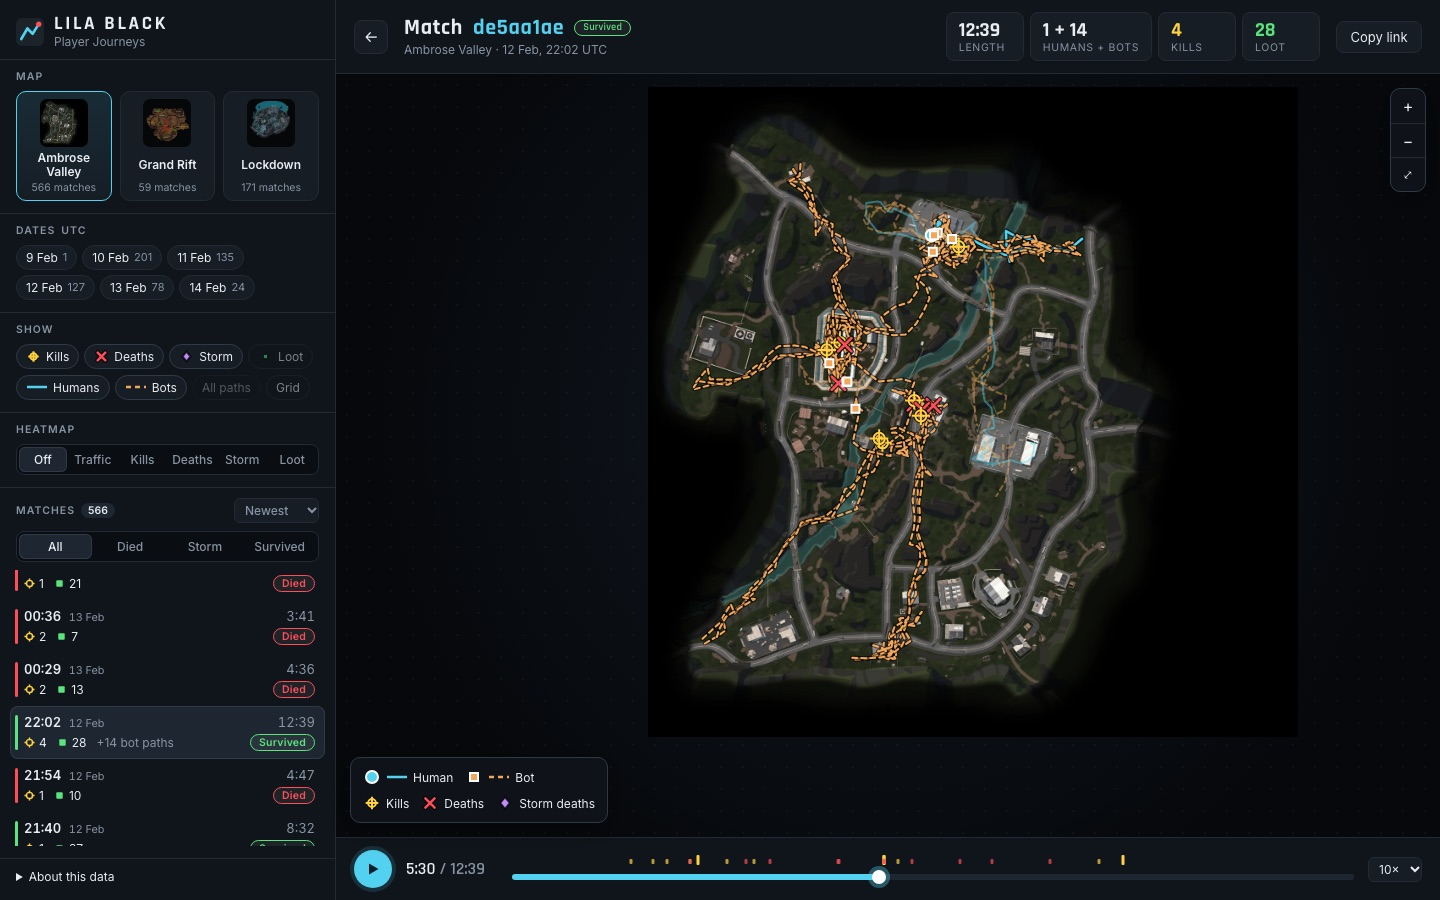
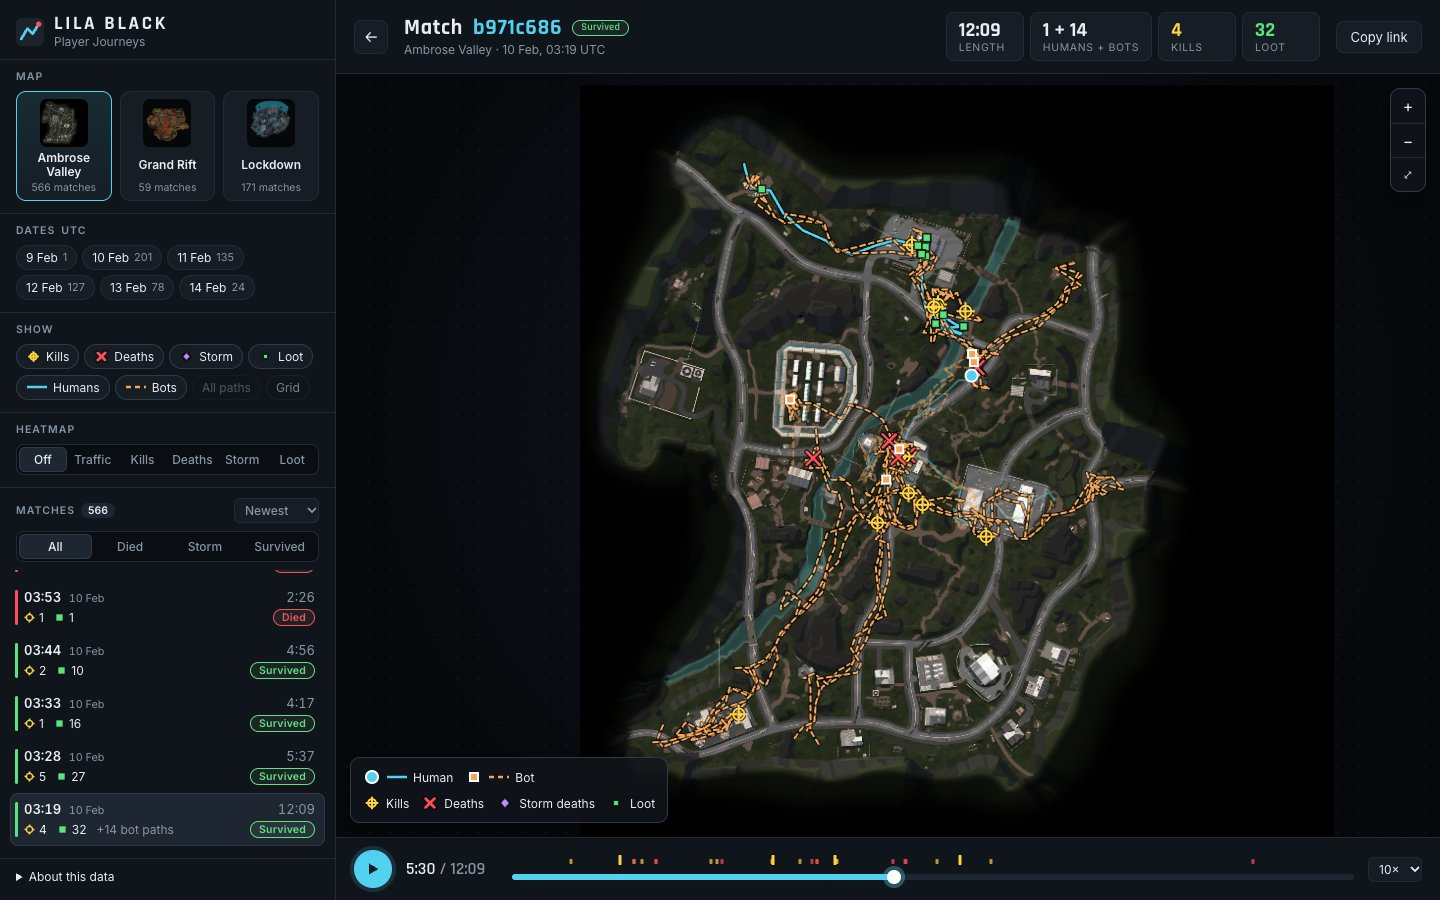
Fit the architecture doc on one page, tighten the insights, new screenshots
- ARCHITECTURE: same five parts, cut down to one printed page
- Insight 1: call out the player with 15 of the 59 Grand Rift runs, and
  drop the overclaim about the rest of the map
- Insights 2 and 3: count spawn points, not grid cells, and leave out the
  heaviest player on both maps when comparing Lockdown
- README: Node version, All paths and Opacity in the walkthrough, full
  code layout, screenshots of the current UI

diff --git a/INSIGHTS.md b/INSIGHTS.md
@@ -1,10 +1,10 @@
 # Three things I learned from the data
 
-All numbers come from the processed data in `public/data` (human journeys only unless I say otherwise). The links open the live tool on the right map or match. Grid references (like `E6`) use the tool's A–J / 1–10 grid. Turn it on with the Grid toggle under Show.
+All numbers come from the processed data in `public/data` (human journeys only unless I say otherwise). The links open the live tool on the right map or match. Grid references (like `E6`) use the tool's A-J / 1-10 grid. Turn it on with the Grid toggle under Show.
 
 ---
 
-## 1. Grand Rift: the Mine Pit has a fifth of the traffic and three quarters of the deaths
+## 1. Grand Rift: the Mine Pit has a fifth of the traffic and three quarters of the combat deaths
 
 **What caught my eye.** On Grand Rift I flipped the heatmap from Traffic to Deaths, expecting roughly the same picture. Instead, the deaths collapse into one spot, the Mine Pit in the middle of the map. The two "Quarters" compounds get just as much foot traffic and almost no one dies there.
 
@@ -12,19 +12,20 @@ All numbers come from the processed data in `public/data` (human journeys only u
 
 | Area | Share of time spent | Combat deaths |
 |---|---|---|
-| Mine Pit (E5–E7, F5–F7) | 22% | **19 of 25 (76%)** |
-| Labour + Engineer's Quarters (B5–C6, H6–I7) | 23% | **0** |
+| Mine Pit (E5-E7, F5-F7) | 22% | **19 of 25 (76%)** |
+| Labour + Engineer's Quarters (B5-C6, H6-I7) | 23% | **0** |
 
 - 43 of the 59 Grand Rift runs pass through the pit, and 19 of those 43 players (44%) die inside it.
 - The pit is packed with bots. Humans get 90 bot kills per 1,000 samples there, against 48 map-wide. Players win most of those fights (74 kills to 19 deaths), but 19 of the 34 players who fight in the pit die there.
-- Ambrose Valley has a milder version: cells C5–E6 hold about half of all deaths on less than a quarter of the traffic.
+- One player (94d042cb) has 15 of the 59 runs and 5 of the 19 pit deaths. Without them the pit still has 14 of 20 combat deaths on 19% of the time.
+- Ambrose Valley has a milder version: cells C5-E6 hold about half of all deaths on less than a quarter of the traffic.
 
 **Actionable.**
-- Make the pit floor survivable: add cover and a second way out of E5–E7, or cut the number of bots placed inside it.
+- Make the pit floor survivable: add cover and a second way out of E5-E7, or cut the number of bots placed inside it.
 - If the Quarters are meant to carry some risk, move a bot patrol or better loot there. Leave Labour Quarters (B5) alone, because 16 of the 59 runs spawn there, and danger next to a spawn turns into spawn camping.
 - Metrics that should move: the pit's share of deaths (76% now), the share of pit visitors who die there (44%), and Grand Rift's combat death rate (25 of 59 runs).
 
-**Why a level designer should care.** One room decides most Grand Rift matches, and the rest of the map has no risk at all. Both causes, the geometry and where bots are placed, belong to the level team.
+**Why a level designer should care.** One room has three quarters of Grand Rift's combat deaths, while the two Quarters, with just as much traffic, have none. Both causes, the geometry and where bots are placed, belong to the level team.
 
 ---
 
@@ -37,7 +38,7 @@ All numbers come from the processed data in `public/data` (human journeys only u
 | Spawn | Killed within 120 s |
 |---|---|
 | C7 (west road) | **21 of 75 runs (28%)** |
-| The other 8 spawns combined | 20 of 493 runs (4%) |
+| All other spawns combined | 20 of 493 runs (4%) |
 
 - The early deaths land just north and east of the spawn: C6 (7), C7 (5), D6 (5), E6 (2), D7 and F6 (1 each). That's the cluster of houses south of the walled compound.
 - 10 of those 21 players hadn't picked up a single item before dying.
@@ -46,7 +47,7 @@ All numbers come from the processed data in `public/data` (human journeys only u
 
 **Actionable.**
 - Move the C7 spawn further south or west, away from the C6/D6 houses, or keep bots out of C6/D6 for the first two minutes.
-- Metric that should move: C7's early-death rate, from 28% down toward the 0–9% that every other spawn already has. Also watch zero-loot deaths from C7 and session length for players who spawn there.
+- Metric that should move: C7's early-death rate, from 28% down toward the 0-7% that the other spawn points already have. Also watch zero-loot deaths from C7 and session length for players who spawn there.
 
 **Why a level designer should care.** A player can't avoid a bad spawn. One in four people who start at C7 lose before they've made a real decision, which is the kind of match that makes someone close the game. The fix is one spawn point or one bot placement.
 
@@ -64,13 +65,13 @@ All numbers come from the processed data in `public/data` (human journeys only u
 | Ambrose Valley | 17 of 94 (18%) | 9 | 68 |
 
 - After about 10:40, no one on Lockdown is killed by a bot. Every late death is the storm.
-- One player accounts for 6 of the 17 storm deaths. Even without them it's 11 of 29 (38%), still double Ambrose Valley.
+- One player accounts for 6 of the 17 storm deaths. Even without them it's 11 of 29 (38%). Leaving out Ambrose Valley's most frequent player the same way gives 16 of 76 (21%) there, so Lockdown is still well ahead.
 - Players pick up loot more slowly on Lockdown (1.7 items per minute against 2.7 on Ambrose Valley). People who stay late are likely trying to fill their bags, and they run out of time.
 - An example: [match 18c1b2c6](https://lila-player-journeys-one.vercel.app/#map=Lockdown&match=18c1b2c6-4f87-4200-9816-68fa448de33b&t=760). The player reaches the east edge (I5) at 13:34 and dies to the storm in I4 at 13:44.
 
 **Actionable.**
 - Try the cheap fixes first: a clearer storm or extraction warning before 10:30, and more loot on Lockdown so bags fill sooner.
-- If the storm share doesn't drop, delay or slow the final storm phase by 60–90 s, or add an extraction point closer to where late players end up.
+- If the storm share doesn't drop, delay or slow the final storm phase by 60-90 s, or add an extraction point closer to where late players end up.
 - Metrics that should move: storm deaths as a share of players alive at 650 s (49% now, Ambrose Valley sits at 18%), and Lockdown loot per minute.
 
 **Why a level designer should care.** A storm death throws away everything the player collected. On Lockdown it hits exactly the players who commit to a full match. With no bot threat late in the match, the outcome comes down to loot pace and distance to an exit, and both are level design decisions.
@@ -81,4 +82,4 @@ All numbers come from the processed data in `public/data` (human journeys only u
 
 - The data almost always has one human file per match, so there's no real PvP in it. The only 3 `Kill` rows each sit at the same second and spot as that player's own death. These findings are about bots, geometry and timing, not about players fighting each other.
 - "Survived" means no death was recorded. The data has no explicit extraction event.
-- Samples get small in places: Grand Rift has 59 runs, and the Lockdown late-game table has 35. I picked the cut-offs (120 s, 650 s) after looking at the data, so treat the exact numbers as directional. The gaps are large enough that a different cut-off doesn't change the conclusion.
+- Samples get small in places: Grand Rift has 59 runs from 30 players, and the Lockdown late-game table has 35. I picked the cut-offs (120 s, 650 s) after looking at the data, so treat the exact numbers as directional. The gaps are large enough that a different cut-off doesn't change the conclusion.

diff --git a/ARCHITECTURE.md b/ARCHITECTURE.md
@@ -1,41 +1,34 @@
 # Architecture
 
-**Stack, and why.**
-- Python + pyarrow: reads the parquet files directly, and the data rules are easy to test in Python.
-- React + TypeScript + Vite: fast to build with, and the types keep the JSON contract explicit.
-- Canvas 2D: draws one image plus ~90k points quickly, and gives full control over zoom, playback and hit-testing.
-- Vercel: static hosting. No server, no cold starts, and it redeploys on every push.
+**What I used and why.** Python and pyarrow for the pipeline, since they read parquet directly and the rules are easy to test. React, TypeScript and Vite for the app, quick to build with typed JSON. Canvas 2D for the map, fast with ~60k points. Vercel for static hosting with no server.
 
-**Data flow.** `pipeline/build.py` reads the 1,243 parquet files, decodes and cleans them, and decides human vs bot. It groups rows into matches, projects world (x, z) to minimap pixels, and writes one JSON per map plus a manifest and resized minimaps (`public/`). The browser loads one map's JSON (~435 KB compressed), filters by date and players, then `heatmap.ts` and `MapCanvas.tsx` draw it. All judgement calls about the data live in the pipeline.
+**Data flow.** `pipeline/build.py` runs once at build time. It reads the 1,243 parquet files, cleans them, decides human vs bot, groups rows into matches, converts world (x, z) to minimap pixels and writes one JSON per map. The browser loads the selected map's JSON (up to ~435 KB compressed), filters it by date and player type, and `MapCanvas.tsx` draws it.
 
-## Coordinate mapping
-
-The dataset README gives an origin and a scale per map. They define a square of world (x, z) that the minimap covers edge to edge:
+**Coordinate mapping.** Each map's origin and scale (from the dataset README) mark out the square of world space the minimap covers:
 
 ```
 u = (x - originX) / scale      v = (z - originZ) / scale
-px = u * 1024                  py = (1 - v) * 1024        # image y grows downwards
+px = u * 1024                  py = (1 - v) * 1024    # image y grows downwards
 ```
 
-`y` is height, so it's dropped. The README says the images are 1024², but they're 4320², 2160×2158 and 9000². Positions are kept in the README's 1024 space and the image is drawn scaled into a 1024 box, so the resolution doesn't matter. Grand Rift is stretched 2 px to make it square. Checks: `test_build.py` asserts the README's worked example ((−301.45, −355.55) → (78, 890)); all 89k points plotted on their minimaps stay on roads, buildings and river beds; the tooltip shows world x/z through the inverse transform.
+`y` is height, so I drop it. The minimaps are really 4320, 2160x2158 and 9000 px wide, so positions stay in 1024 space and each image is drawn into a 1024 box. `test_build.py` checks that the README example (-301.45, -355.55) lands on (78, 890), and plotting all 89k points puts them on roads and buildings.
 
-## Assumptions and data quirks
+**Assumptions.**
 
-| Found | Did |
-|---|---|
-| `ts` is typed as ms but holds Unix **seconds** (read as ms, it's Jan 1970). `event` is bytes. | Read `ts` as seconds; match time = ts − the match's first ts. Decode `event` as UTF-8. |
-| 3 files are written twice back to back. 1 file is copied into two day folders. | Collapse the doubled files and merge per (match, player). ~1.2k other identical Loot rows are kept, since two pickups in one second are real. |
-| Positions are only logged while a player moves (every 5 s). | Traffic heatmap weights each sample by time spent there (cap 30 s). Playback holds players still through gaps. |
-| Numeric ids 1379/1402/1429 emit player-only events (`Position`, `Loot`) in 17 files. | Classify each file by its events; the id format is only a fallback. |
-| 4 matches sit in the next day's folder. 14 Feb is partial. | A match's date is the UTC date of its first event. The notes flag 14 Feb. |
-| Usually one human file per match, and bot files in only 52 of 796. No extraction event. | Counts in the list are the human's. The overview hides bots by default. No death means "Survived". |
+- `ts` is typed ms but holds seconds, and `event` is bytes. I read seconds and decode UTF-8.
+- 3 files are written twice and 1 sits in two day folders. I keep one copy of each.
+- Positions only come while a player moves, so traffic is weighted by time spent (max 30 s).
+- Numeric ids 1379, 1402, 1429 act like players, so events, not ids, decide human vs bot.
+- A match's day is the UTC day of its first event (one is 9 Feb, 23:58). 14 Feb is partial.
+- Only 52 of 796 matches have bot files, so bots start hidden in the overview.
+- There is no extraction event, so a run with no death is called "Survived".
 
-## Trade-offs
+**Trade-offs.**
 
-| Decision | Considered | Picked |
+| Decision | Considered | Chose |
 |---|---|---|
-| Parse parquet | DuckDB-WASM in the browser | At build time. The data is fixed, so there's no need to download MBs of WASM on every visit. |
-| Rendering | Leaflet (CRS.Simple), deck.gl, SVG | Canvas. One image plus markers doesn't need a map library's layer model, and SVG slows down past ~10k nodes. |
-| Data files | One per match / one big file | One per map. Heatmaps need every match on the map anyway. |
-| Heatmap scale | Linear to the max | sqrt, scaled to the 99.5th percentile, so one hot spawn doesn't wash out the rest. |
-| Hosting | Render, Railway | Vercel static. Render's free tier sleeps, so the first visit would wait about 50 s. |
+| Parse parquet | DuckDB-WASM in the browser | Build time, no WASM per visit |
+| Rendering | Leaflet, deck.gl, SVG | Canvas, SVG slows past ~10k nodes |
+| Data files | One per match | One per map, heatmaps need all |
+| Heatmap scale | Linear to the max | Square root, 99.5th percentile |
+| Hosting | Render | Vercel, Render's free tier sleeps |

diff --git a/README.md b/README.md
@@ -8,13 +8,13 @@ Live: **https://lila-player-journeys-one.vercel.app**
 
 ## Walkthrough
 
-1. Open the link. You land on Ambrose Valley with a time-spent heatmap and every human kill, death and storm death from all 566 matches. Bots and loot are one click away under Show. The cards along the top summarise the human runs in the current selection.
+1. Open the link. You land on Ambrose Valley with a time-spent heatmap and every human kill, death and storm death from all 566 matches. Bots, loot and All paths (every journey in the selection) are one click away under Show. The cards along the top summarise the human runs in the current selection.
 2. Use the map cards on the left to switch between Ambrose Valley, Grand Rift and Lockdown. Click a date chip to look at one day only, and click more chips to add days back.
-3. Change the heatmap to Kills, Deaths, Storm or Loot. Comparing Traffic with Deaths is the quickest way to find spots that are busy but safe, or quiet but deadly.
+3. Change the heatmap to Kills, Deaths, Storm or Loot. Comparing Traffic with Deaths is the quickest way to find spots that are busy but safe, or quiet but deadly. The Opacity slider fades the heatmap so the map shows through.
 4. Hover any marker to see what happened, who it was (human or bot), when, and the world x/z. Click it and that match opens 20 s before the event, plays up to it and pauses.
 5. Or pick a match from the list. Filter by how the human's run ended (died / storm / survived) and sort by newest, longest, shortest, most kills or most loot.
-6. In a match the map zooms to where it happened, and bots and loot are shown. Play/pause, scrub, change speed (1–40×), or click a tick on the timeline to jump to a fight. Humans are solid cyan lines with round markers, and bots are dashed orange lines with square ones.
-7. Turn on the Grid (A–J / 1–10) to talk about places, e.g. "the pit at E6". Copy link shares the exact match and moment.
+6. In a match the map zooms to where it happened, and bots and loot are shown. Play/pause, scrub, change speed (1-40x), or click a tick on the timeline to jump to a fight. Humans are solid cyan lines with round markers, and bots are dashed orange lines with square ones.
+7. Turn on the Grid (A-J / 1-10) to talk about places, e.g. "the pit at E6". Copy link shares the exact match and moment.
 
 Map controls: click any empty spot to glide there and zoom in (Shift-click zooms out), scroll to zoom, drag to pan, and ⤢ shows the whole map again. In a match: `space` play/pause, `←` `→` step 5 s, `esc` back to the overview.
 
@@ -28,7 +28,7 @@ Map controls: click any empty spot to glide there and zoom in (Shift-click zooms
 ## Tech stack
 
 - Data pipeline: Python 3.10+, pyarrow, Pillow
-- Frontend: React 19, TypeScript, Vite. Plain canvas for the map, no map or chart libraries.
+- Frontend: React 19, TypeScript, Vite (Node 20.19+ or 22.12+). Plain canvas for the map, no map or chart libraries.
 - Hosting: Vercel (static)
 
 ## Running locally
@@ -61,8 +61,9 @@ The repo is connected to a Vercel project using the Vite preset (`npm run build`
 ## Code layout
 
 ```
-pipeline/build.py        parquet → cleaned JSON + resized minimaps
+pipeline/build.py        parquet -> cleaned JSON + resized minimaps
 pipeline/test_build.py   checks for the transform and the data cleanup
+src/App.tsx              app state, playback loop, URL hash and keyboard shortcuts
 src/data.ts              data types, loading, time and coordinate helpers
 src/heatmap.ts           binning, blur and colour ramp for the heatmaps
 src/MapCanvas.tsx        the map: pan/zoom, paths, markers, hover and click
@@ -70,4 +71,5 @@ src/Sidebar.tsx          map/date/layer filters and the match list
 src/TopBar.tsx           summary numbers for the current view
 src/Timeline.tsx         playback controls
 src/markers.ts           marker shapes and colours, shared by the map and the legend
+src/Legend.tsx           the map legend, drawn with the same marker code
 ```
